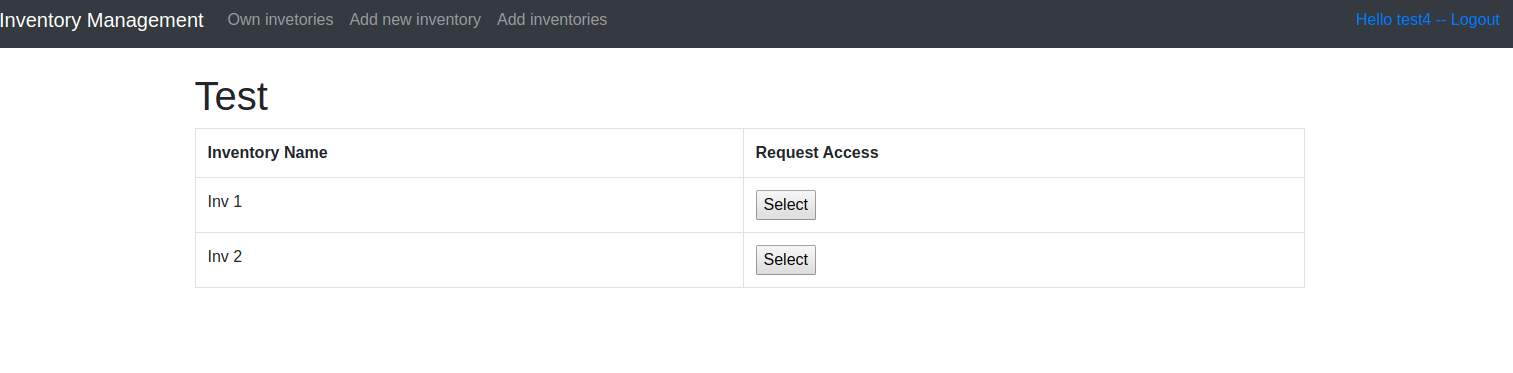
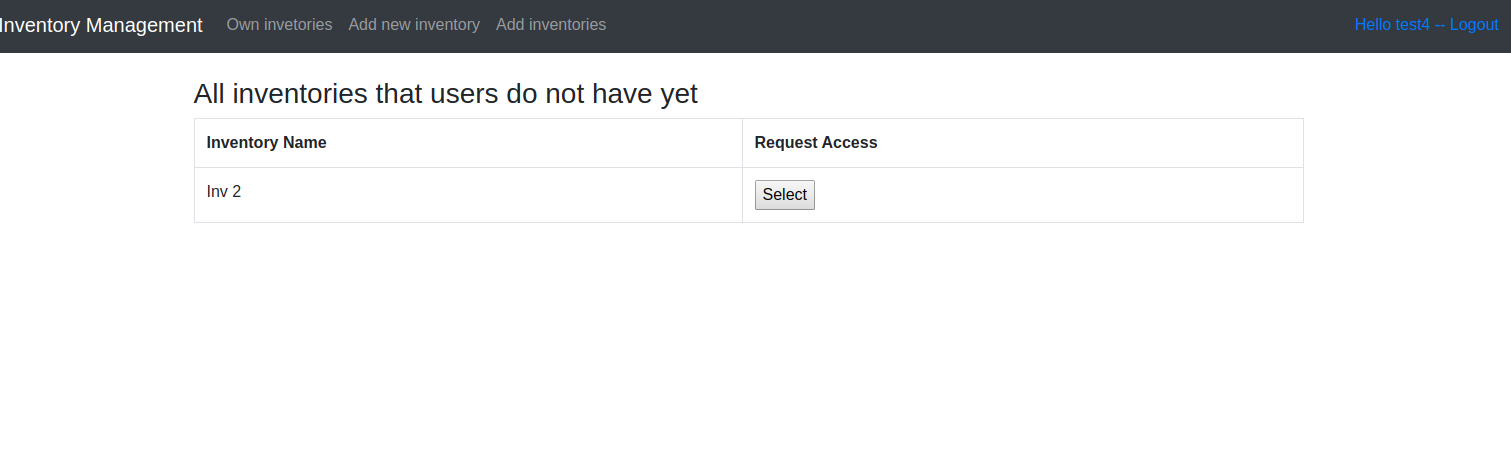
manual updated

diff --git a/documents/Käyttöohje.md b/documents/Käyttöohje.md
@@ -18,7 +18,7 @@ Sinne pääsee myös valitsemalla navikointivalikosta "Own inventories".
 
 Listauksessa käyttäjän tekemät varastot, sekä toisten käyttäjien varastot, mihin hänellä on oikeus.
 Painamalla "select" käyttäjä voi valita varaston, ja tämä vie käyttäjän kyseisen varaston näkymään. 
-Painamalla "Updated" käyttäjä pääsee näkymään, missä hän voi päivittää varaston nimen. 
+Painamalla "Update" käyttäjä pääsee näkymään, missä hän voi päivittää varaston nimen. 
 Painamalla "remove" käyttäjä voi poistaa varaston. 
 Poistamisse huomioidaan kuitenkin onko käyttäjä omistaja vai ei. 
 Jos hän ei ole varaston omistaja, varsto poistuu ainoastaan hänen listauksesta.
@@ -32,7 +32,7 @@ Valitsemalla "Add inventory" valikointinäkymästä käyttäjä saa listauksen k
 Painamalla "Select" käyttäjälle lisätään oikeus varastoon.
 Tämän jälkeen varasto löytyy "Own inventories" alta.
 
-<img src="" width="960">
+<img src="https://github.com/jkukko/InventoryManagement/blob/master/documents/kuvat/all_inventories.png" width="960">
 
 ## Varastonäkymä
 
